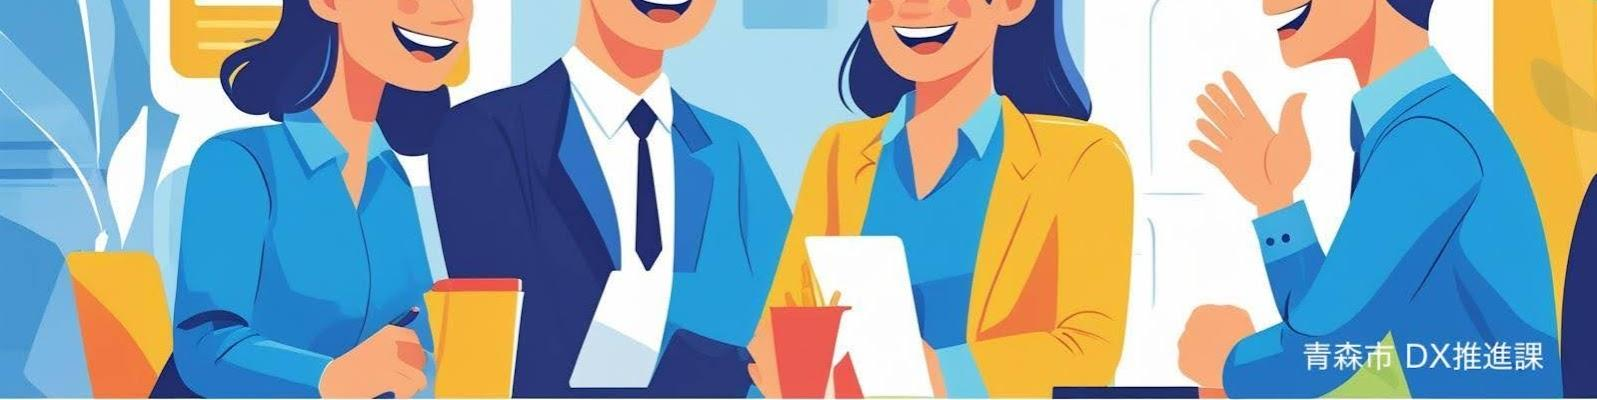
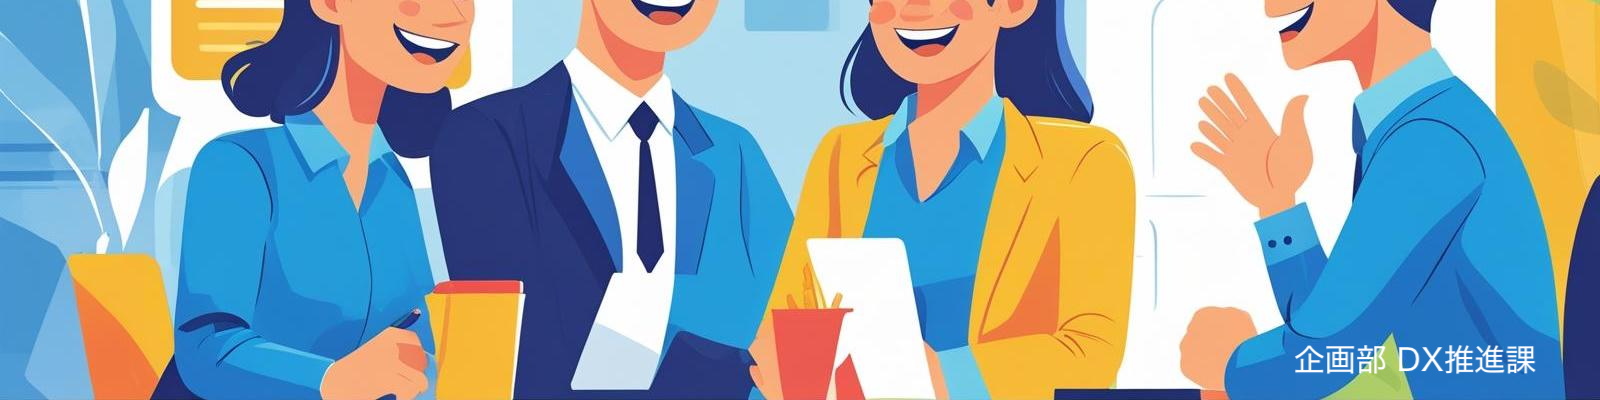
fix text
青森市 -> 企画部に修正

diff --git a/entrance/index.html b/entrance/index.html
@@ -4,7 +4,7 @@
 		<meta charset="UTF-8" />
 		<meta name="viewport" content="width=device-width, initial-scale=1.0" />
 		<meta name="robots" content="noindex,nofollow" />
-		<meta property="og:title" content="DX相談窓口フォームのご案内 | 青森市DX推進課" />
+		<meta property="og:title" content="DX相談窓口フォームのご案内 | 企画部" />
 		<meta
 			property="og:description"
 			content="庁内の業務で「デジタルで何をすればいいのか分からない」と感じたら、まずはこちらをご覧ください。"
@@ -18,10 +18,10 @@
 			property="og:image"
 			content="https://dx-city-aomori.github.io/dx-soudan-form/entrance/images/ogp.png"
 		/>
-		<meta property="og:site_name" content="青森市 DX推進課" />
+		<meta property="og:site_name" content="企画部 DX推進課" />
 		<meta name="twitter:card" content="summary_large_image" />
 
-		<title>DX相談窓口フォームのご案内 | 青森市DX推進課</title>
+		<title>DX相談窓口フォームのご案内 | 企画部DX推進課</title>
 		<link rel="preconnect" href="https://fonts.googleapis.com" />
 		<link
 			href="https://fonts.googleapis.com/css2?family=Noto+Sans+JP:wght@400;700&display=swap"
@@ -87,7 +87,7 @@
 				</div>
 			</div>
 			<div class="navigation-footer">
-				<div class="dx-734-5132-2531">青森市 DX推進課 734-5132（内 2531）</div>
+				<div class="dx-734-5132-2531">企画部 DX推進課　734-5132（内 2531）</div>
 			</div>
 		</div>
 	</body>
